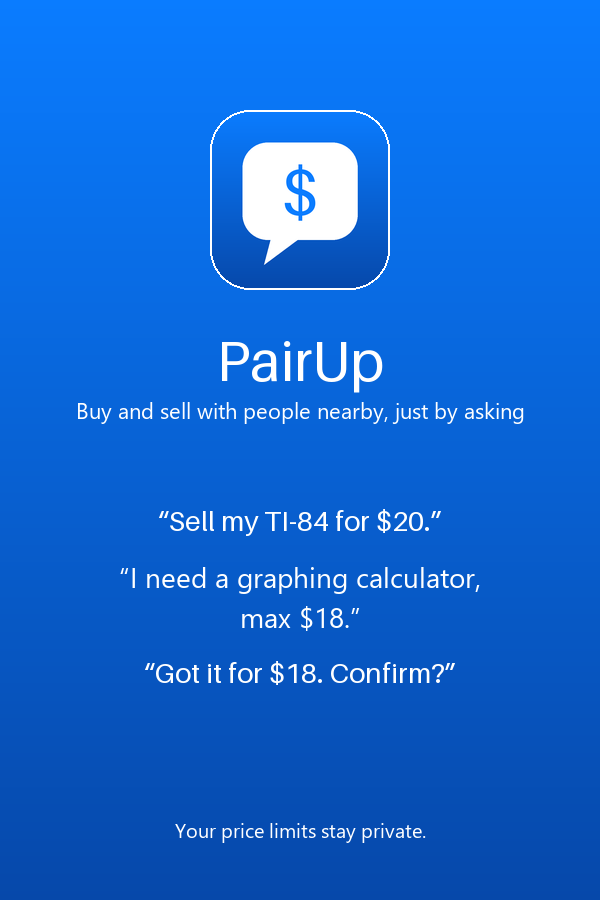
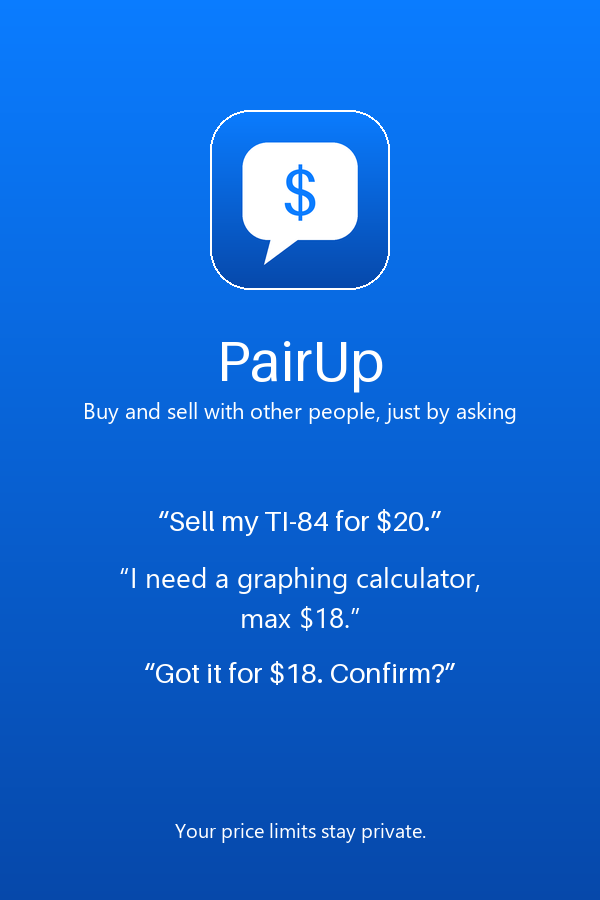
docs: drop "voice-first" and universal "nearby" wording
PairUp pairs people directly for things and services; a local hand-off
is one option, not the whole product. Taglines, agent prompts, the
store listing and the no-seller fallback now say "someone who has it
or can do it" instead of "people nearby".

Changed region(s): [[0.12, 0.4356, 0.87, 0.4667]]

diff --git a/test/amazon.test.ts b/test/amazon.test.ts
@@ -11,7 +11,7 @@ import { outputs } from "../src/mcp/schemas.js";
 import { createMcpServer } from "../src/mcp/server.js";
 
 // Where the local market hands off to Amazon: a search link and the new price
-// when nobody nearby has the item, a Trade-In link for an item nobody is asking
+// when nobody has the item, a Trade-In link for an item nobody is asking
 // for, and an Amazon Hub point as the meet-up when both sides share an area.
 
 // ---------- the rules on their own ----------
@@ -67,7 +67,7 @@ async function clientAs(userId: string) {
   };
 }
 
-test("no seller nearby: the request waits, with the item new on Amazon as an option", async () => {
+test("no seller: the request waits, with the item new on Amazon as an option", async () => {
   const buyer = await clientAs("amz_buyer");
   const req = await buyer.call("post_request", { need: "TI-84 graphing calculator", max_price: 18 });
   assert.equal(req.deal, null);
@@ -76,7 +76,7 @@ test("no seller nearby: the request waits, with the item new on Amazon as an opt
   assert.equal(req.fallback.still_waiting, true);
   assert.equal(req.fallback.amazon_url, "https://www.amazon.com/s?k=TI-84%20graphing%20calculator");
   assert.equal(typeof req.fallback.new_price, "number", "the new price comes from the reference prices");
-  assert.equal(req.fallback.say, `Nobody nearby has one yet. New on Amazon it's about $${req.fallback.new_price} (demo estimate).`);
+  assert.equal(req.fallback.say, `Nobody has one yet. New on Amazon it's about $${req.fallback.new_price} (demo estimate).`);
   assert.match(req.say, /keep looking.*If you can't wait, it's about \$\d+ new on Amazon \(demo estimate\)\.$/);
   await buyer.close();
 });
@@ -89,7 +89,7 @@ test("nothing within budget: the closest offer is named and the Amazon option is
   assert.equal(req.deal, null);
   assert.equal(req.fallback.reason, "over_budget");
   assert.equal(req.fallback.new_price, null, "no reference price for a tent");
-  assert.equal(req.fallback.say, "Nobody nearby has one in your budget yet. You can also look for a new one on Amazon.");
+  assert.equal(req.fallback.say, "Nobody has one in your budget yet. You can also look for a new one on Amazon.");
   assert.match(req.say, /Want it at that price\? Otherwise I'll keep looking\.$/);
   for (const c of [seller, buyer]) await c.close();
 });

diff --git a/src/mcp/discovery.ts b/src/mcp/discovery.ts
@@ -89,7 +89,7 @@ export async function serverCard(deps: Deps, cfg: CardConfig, host?: string) {
     protocolVersion: PROTOCOL_VERSION,
     serverInfo: SERVER_INFO,
     description:
-      "Voice-first C2C marketplace: pairs people who need an item or a service with people who have it or can do it, " +
+      "C2C marketplace: pairs people who need an item or a service with people who have it or can do it, " +
       "settles the price by a fixed rule inside both sides' private limits, and records each side's yes.",
     documentationUrl: `${REPO}#readme`,
     transport: { type: "streamable-http", endpoint: `${url}/mcp`, statelessCalls: true, sessions: cfg.mcpSessions },
@@ -121,7 +121,7 @@ export async function llmsTxt(deps: Deps, cfg: CardConfig, host?: string) {
     : `- Sessions are off on this server: poll get_deal_status for news. A far-off price returns an error with code confirm_price.`;
   return `# PairUp
 
-> A voice-first C2C marketplace for things and services. People post what they have, can do or need; the server pairs
+> A C2C marketplace for things and services. People post what they have, can do or need; the server pairs
 > each request with the best offer, settles the price by a fixed rule inside limits each side keeps private, and
 > asks both for a final yes.
 

diff --git a/research/PairUp-Business-Case.html b/research/PairUp-Business-Case.html
@@ -115,10 +115,10 @@
     <div class="brand">PairUp</div>
     <div class="doc">Business case · October 2026</div>
     <h1>Say what you need. A neighbor has it.</h1>
-    <p class="sub">A voice-first C2C marketplace on Alexa+ that pairs people who need something with people nearby who have it or can do it, at a fair price set by a published rule.</p>
+    <p class="sub">A C2C marketplace on Alexa+ that pairs people who need something with people who have it or can do it, at a fair price set by a published rule.</p>
   </div>
   <div class="promises">
-    <div class="promise"><div class="n">01</div><b>Faster and cheaper to buy what you need</b><span>One sentence finds it nearby. The whole price goes to the other person.</span></div>
+    <div class="promise"><div class="n">01</div><b>Faster and cheaper to buy what you need</b><span>One sentence finds it. The whole price goes to the other person.</span></div>
     <div class="promise"><div class="n">02</div><b>Make personal business great</b><span>Anyone opens a small business in one sentence and keeps what they earn.</span></div>
     <div class="promise"><div class="n">03</div><b>C2C in the future</b><span>The open meeting point where personal AI agents trade for people.</span></div>
   </div>

diff --git a/public/app/index.html b/public/app/index.html
@@ -4,7 +4,7 @@
 <meta charset="utf-8">
 <meta name="viewport" content="width=device-width, initial-scale=1, viewport-fit=cover">
 <title>PairUp</title>
-<meta name="description" content="Get things and get help from people nearby, by voice.">
+<meta name="description" content="Get things and get help from other people, just by asking.">
 <meta name="theme-color" content="#f6f6f9" media="(prefers-color-scheme: light)">
 <meta name="theme-color" content="#0d0c12" media="(prefers-color-scheme: dark)">
 <link rel="icon" href="/addon/icon-64.png">
@@ -299,7 +299,7 @@
   <div class="welcome">
     <div>
       <div class="brand" data-mark="40">PairUp</div>
-      <h1>Say what you need. Find someone <em>nearby.</em></h1>
+      <h1>Say what you need. Find someone <em>who can help.</em></h1>
       <p class="lede">Something to buy, an errand to run, a little help at an event. Tell PairUp once. Your request waits until someone can help.</p>
       <ul class="uses">
         <li><span class="tile" data-icon="item"></span><div><strong>A calculator for tomorrow's exam</strong><span>No listing forms or back-and-forth bargaining.</span></div></li>

diff --git a/src/mcp/schemas.ts b/src/mcp/schemas.ts
@@ -97,12 +97,12 @@ export const pointOut = z.object({
 }).describe("A PairUp Point: an unstaffed hand-off spot watched by one Ring camera or doorbell");
 
 export const fallbackOut = z.object({
-  reason: z.enum(["no_seller", "over_budget"]).describe("no_seller = nothing like it nearby; over_budget = nothing nearby within the budget"),
+  reason: z.enum(["no_seller", "over_budget"]).describe("no_seller = nothing like it; over_budget = nothing within the budget"),
   new_price: money.nullable().describe("Curated demo estimate for a new item on Amazon.com; null when unknown"),
   currency: z.literal("USD"),
   amazon_url: z.string().describe("amazon.com search for the request"),
   still_waiting: z.literal(true).describe("The request stays on the market and is paired when a seller lists one"),
-  say: z.string().describe("e.g. \"Nobody nearby has one yet. New on Amazon it's about $110.\""),
+  say: z.string().describe("e.g. \"Nobody has one yet. New on Amazon it's about $110.\""),
 }).describe("Items only, when no deal: the same thing new on Amazon, as an option if the user can't wait");
 
 export const tradeInOut = z.object({

diff --git a/agents/agentcore/src/agent.ts b/agents/agentcore/src/agent.ts
@@ -27,7 +27,7 @@ const NOT = /\b(no|not|don'?t|cancel|decline|wait|stop)\b/i;
 const QUALIFIED = /\b(if|unless|provided|assuming|but|only|after|before|except|instead|first|what|why|how|can you|could you)\b|\?/i;
 export const isExplicitYes = (text: string) => YES.test(text) && !NOT.test(text) && !QUALIFIED.test(text);
 
-export const systemPrompt = (now = new Date()) => `You are PairUp, a voice assistant that pairs people directly: people who need something with people nearby who have it or can do it, for things to buy and sell and for services such as lunch runs, errands and event help.
+export const systemPrompt = (now = new Date()) => `You are PairUp, a voice assistant that pairs people directly: people who need something with people who have it or can do it, for things to buy and sell and for services such as lunch runs, errands and event help.
 Current time: ${now.toISOString()}.
 - Use the tools for every marketplace action. Never invent items, prices, people or deals.
 - Offering something: post_offer. Needing something: post_request with the user's own words as raw_request.

diff --git a/src/market/views.ts b/src/market/views.ts
@@ -240,11 +240,11 @@ const hubPlace = (hub: HubPoint) => `${hub.name}, ${hub.area} (demo location)`;
 const usd = (n: number) => `$${Number.isInteger(n) ? n : n.toFixed(2)}`;
 
 /**
- * For an item request nobody nearby can fill: the same thing new on Amazon.
+ * For an item request nobody can fill: the same thing new on Amazon.
  * The request keeps waiting; this is only the "if you can't wait" option.
  */
 export function fallbackView(need: string, reason: "no_seller" | "over_budget", newPrice: number | null) {
-  const lead = reason === "no_seller" ? "Nobody nearby has one yet." : "Nobody nearby has one in your budget yet.";
+  const lead = reason === "no_seller" ? "Nobody has one yet." : "Nobody has one in your budget yet.";
   return {
     reason,
     new_price: newPrice,

diff --git a/src/market/service.ts b/src/market/service.ts
@@ -353,7 +353,7 @@ export async function postRequest(deps: Deps, input: PostRequestInput) {
   const lowBudget = !deal && band && verdict(maxPrice, band, policy) === "far_below"
     ? ` Heads up: ${service ? "jobs like this usually pay" : "these usually go for"} ${range(band, unit, intentRow.currency)}, so it may take a while.`
     : "";
-  // An item nobody nearby can sell yet: the same thing new on Amazon, while the request keeps waiting.
+  // An item nobody can sell yet: the same thing new on Amazon, while the request keeps waiting.
   const fallback = !deal && !service
     ? fallbackView(need, closest ? "over_budget" : "no_seller", band?.source === "reference" ? band.newPrice ?? null : null)
     : null;

diff --git a/public/privacy.html b/public/privacy.html
@@ -17,7 +17,7 @@
 <h1>PairUp privacy policy</h1>
 <p class="muted">Last updated October 20, 2026</p>
 
-<p>PairUp pairs people who need something with people nearby who have it or can do it, for things and small jobs, through a voice-enabled web app and MCP tools. The web app simulates an Alexa+ experience. It is an independent project built for the Amazon Developer Hackathon 2026.</p>
+<p>PairUp pairs people who need something with people who have it or can do it, for things and small jobs, through a voice-enabled web app and MCP tools. The web app simulates an Alexa+ experience. It is an independent project built for the Amazon Developer Hackathon 2026.</p>
 
 <h2>What we store</h2>
 <ul>

diff --git a/src/agent/bedrock.ts b/src/agent/bedrock.ts
@@ -13,7 +13,7 @@ const client = (region: string) => {
 };
 
 export function systemPrompt(now = new Date()) {
-  return `You are PairUp, a voice assistant that pairs people directly: people who need something with people nearby who have it or can do it. That covers things to buy and sell, and services such as picking up lunch, running an errand or helping at an event.
+  return `You are PairUp, a voice assistant that pairs people directly: people who need something with people who have it or can do it. That covers things to buy and sell, and services such as picking up lunch, running an errand or helping at an event.
 Current time: ${now.toISOString()}.
 
 How to act:

diff --git a/src/web/main.ts b/src/web/main.ts
@@ -140,7 +140,7 @@ function greet() {
   const hero = el("div", "hero");
   hero.id = "hero";
   hero.append(mark(44), el("h1", "", `Hi${first ? ` ${first}` : ""}. What do you need?`),
-    el("p", "", "Buy or sell something, get an errand run, or find a hand for a job. Say it once and PairUp pairs you with someone nearby."));
+    el("p", "", "Buy or sell something, get an errand run, or find a hand for a job. Say it once and PairUp pairs you with someone who has it or can do it."));
   const examples = el("div", "examples");
   examples.setAttribute("aria-label", "Try an example");
   for (const [name, label, s] of [

diff --git a/src/market/amazon.ts b/src/market/amazon.ts
@@ -3,7 +3,7 @@ import { readFileSync } from "node:fs";
 // Where the local market hands off to Amazon. PairUp covers what Amazon
 // retail doesn't serve (used items under $20, errands, an hour of help); when
 // the local market can't help, it points the person at Amazon instead:
-//   - a request nobody nearby can fill gets a search link and the new price,
+//   - a request nobody can fill gets a search link and the new price,
 //   - an item offer nobody is asking for, in a category Amazon Trade-In takes,
 //     gets a Trade-In link,
 //   - two people in the same area meet at an Amazon Hub Locker or Counter.
